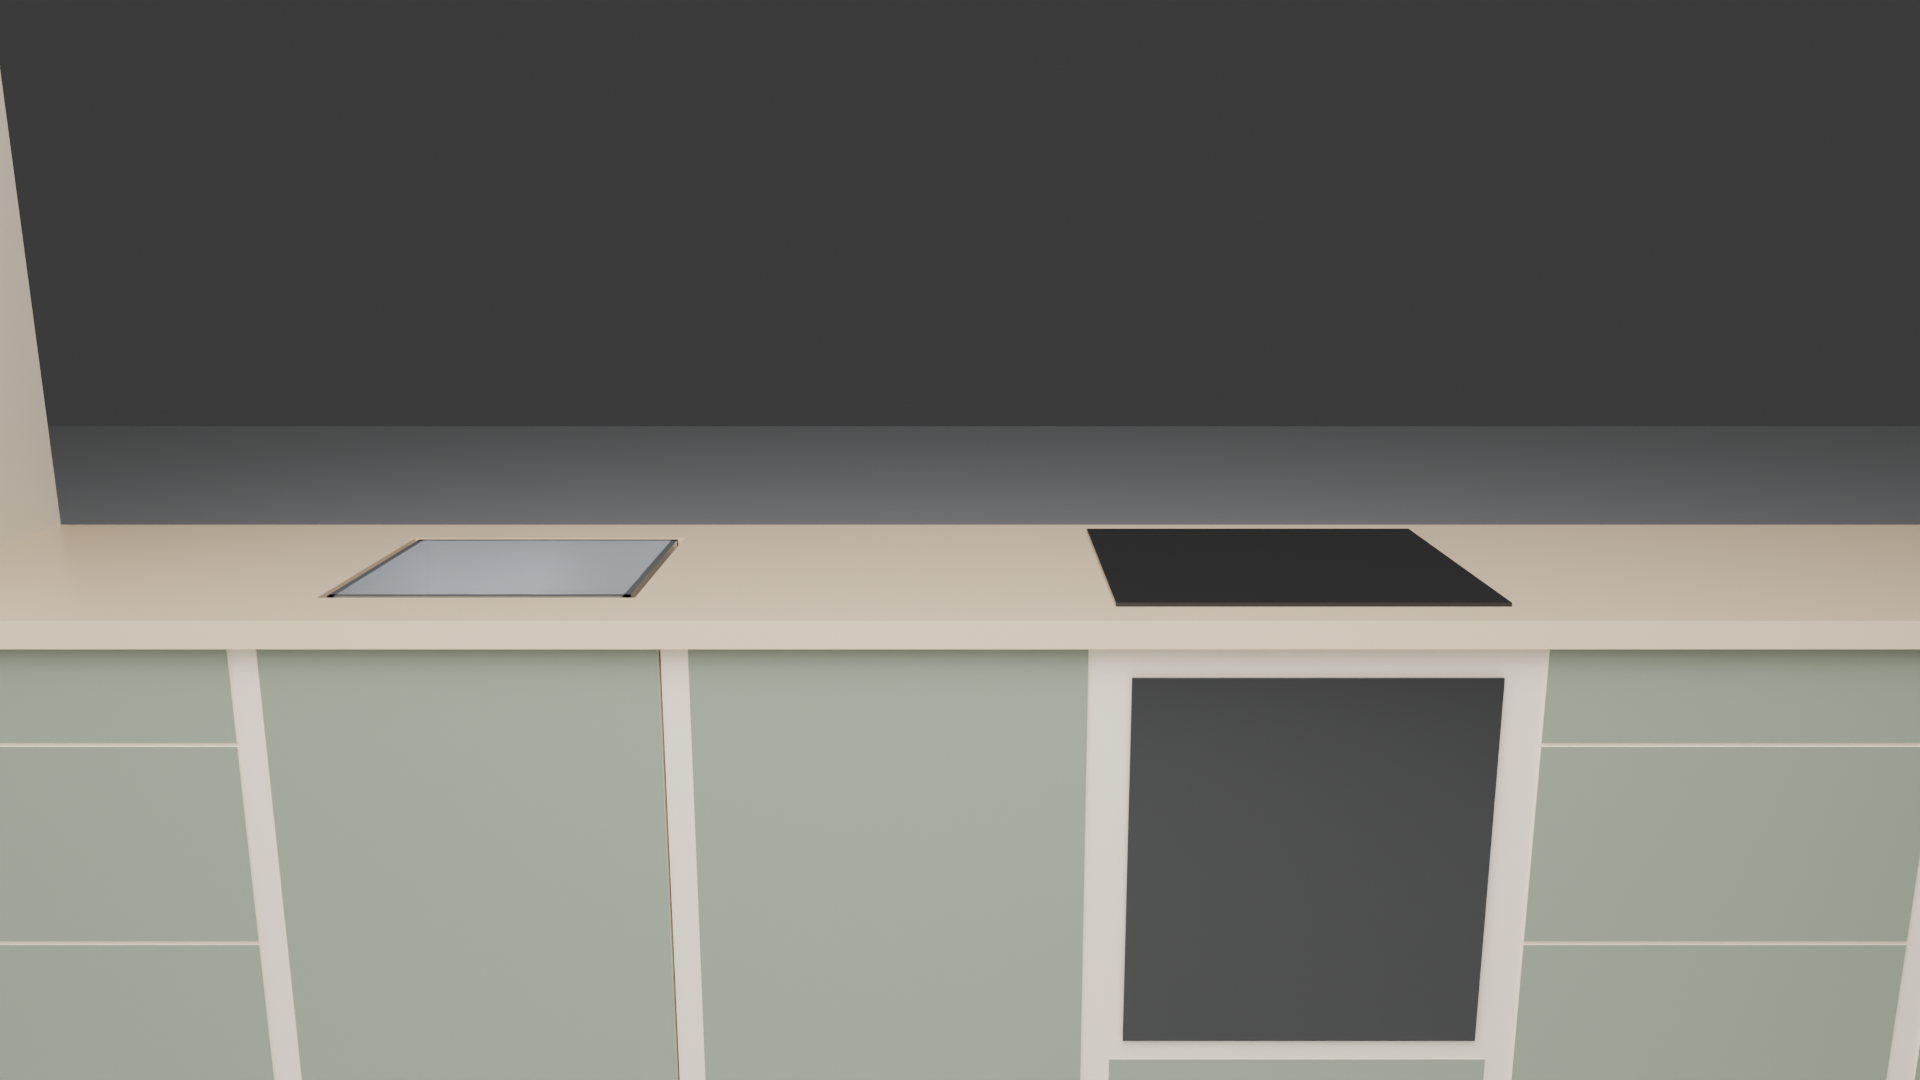
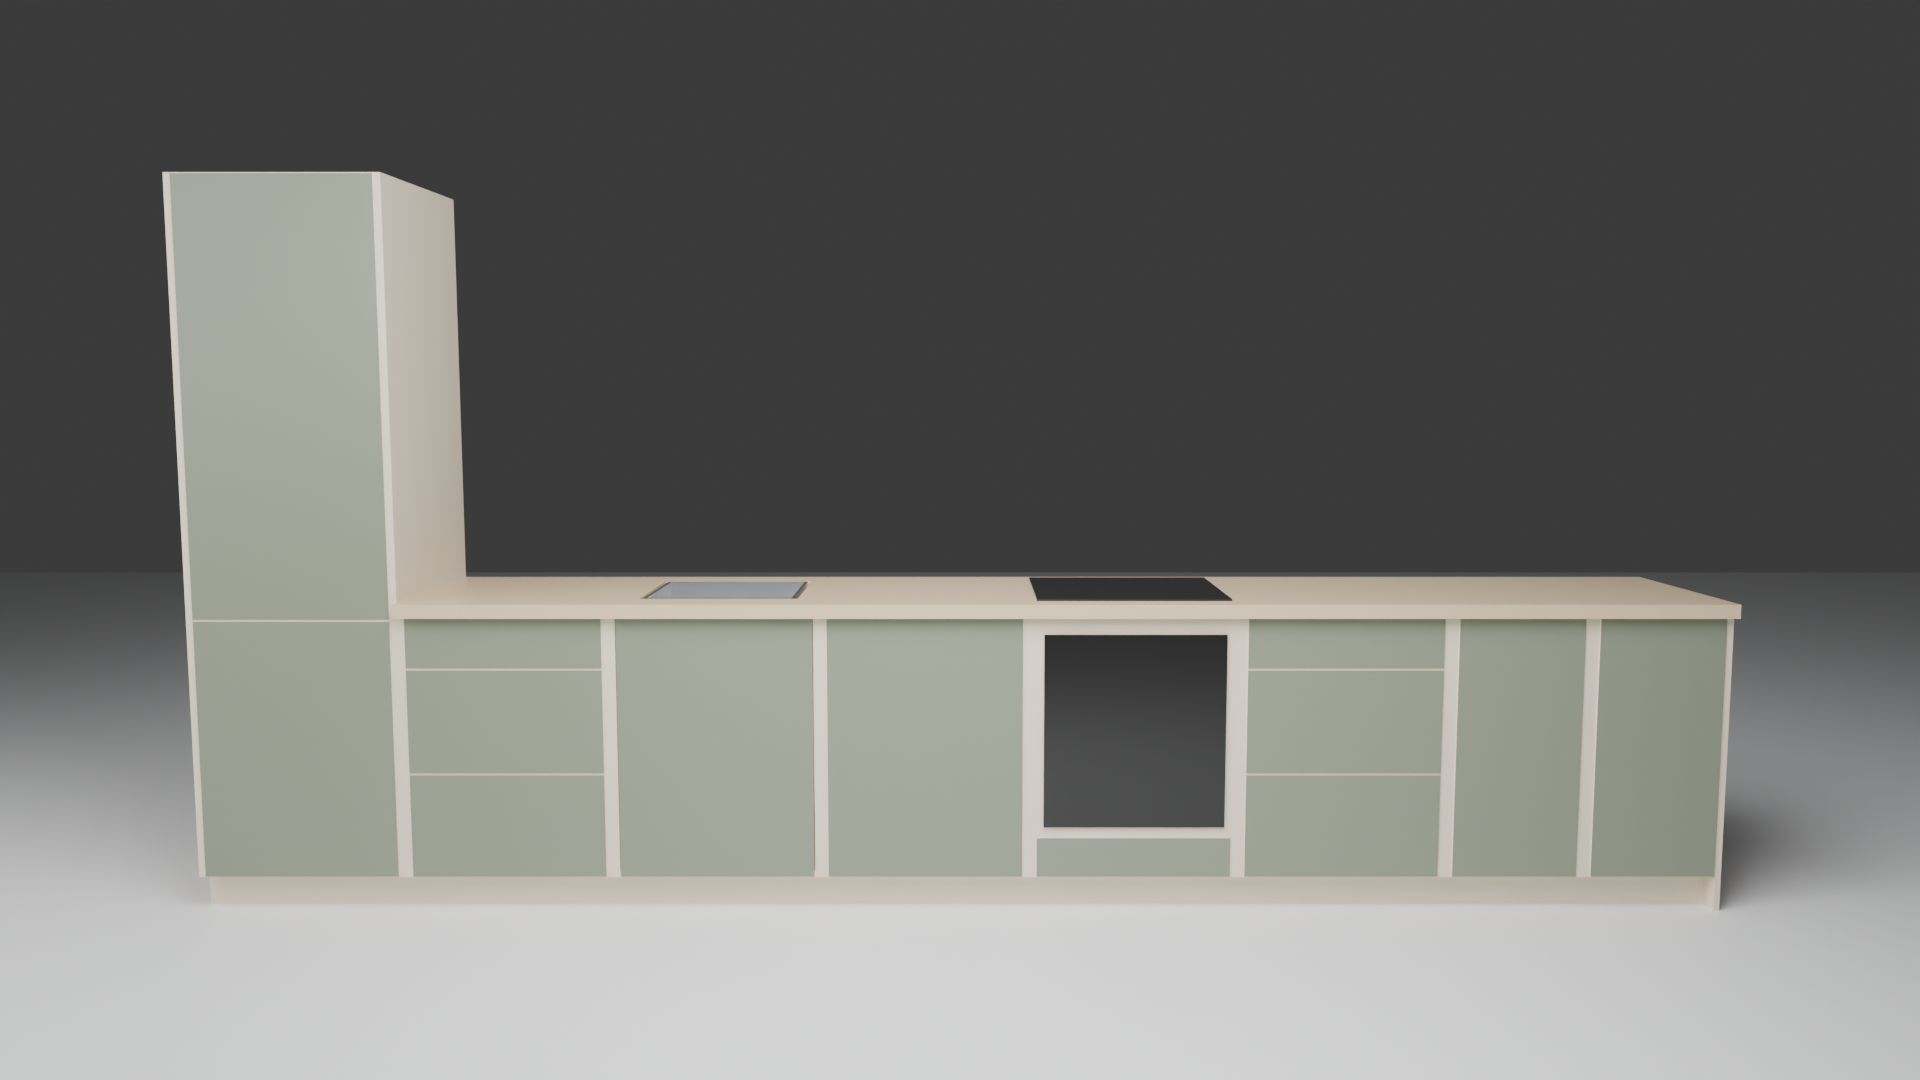
see the entire kitchen

diff --git a/scripts/furniture/kitchen.py b/scripts/furniture/kitchen.py
@@ -574,10 +574,12 @@ def setup_kitchen_studio(kitchen_root: bpy.types.Object):
     cam_data.lens = 28.0
     cam_data.sensor_width = 36.0
     cam_obj = bpy.data.objects.new("Kitchen_Studio_Camera", cam_data)
-    cam_obj.location = (2.6, 2.2, 1.45)
+    #cam_obj.location = (2.6, 2.2, 1.45)
 
     # Track target at the center of the kitchen run (hob & prep zone)
-    target = Vector((0.35, 2.2, 0.95))
+    #target = Vector((0.35, 2.2, 0.95))
+    cam_obj.location = (4.8, 2.2, 1.5)
+    target = Vector((0.3, 2.2, 1.05))
     direction = target - cam_obj.location
     cam_obj.rotation_euler = direction.to_track_quat("-Z", "Y").to_euler()
     col.objects.link(cam_obj)
